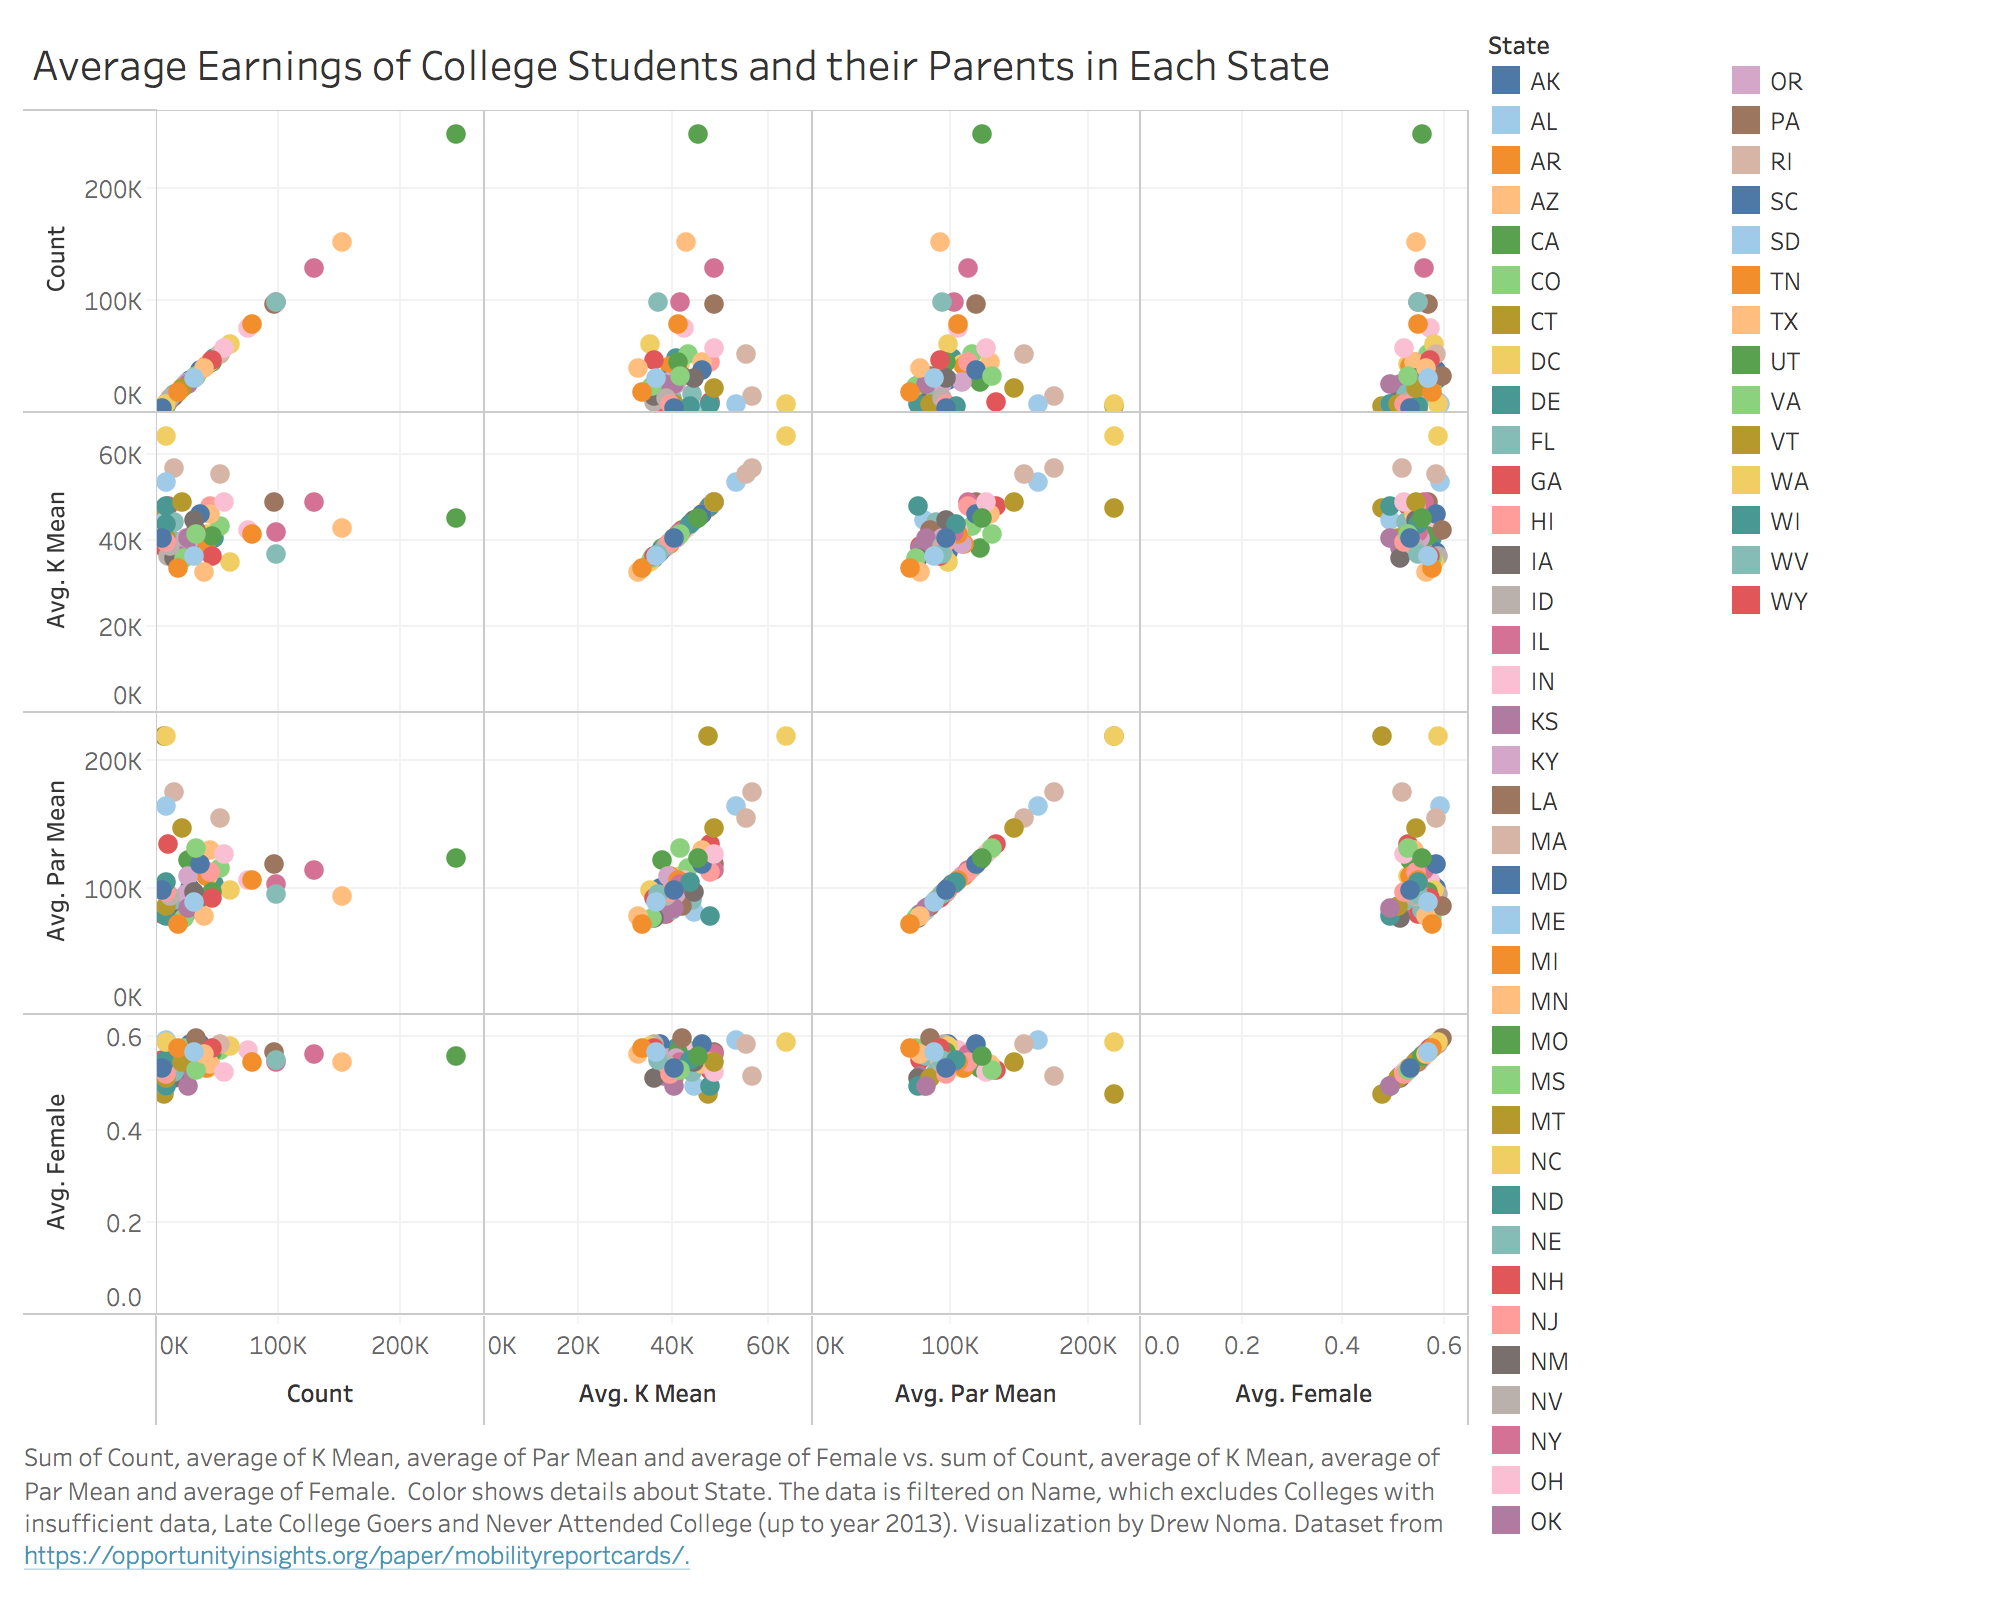
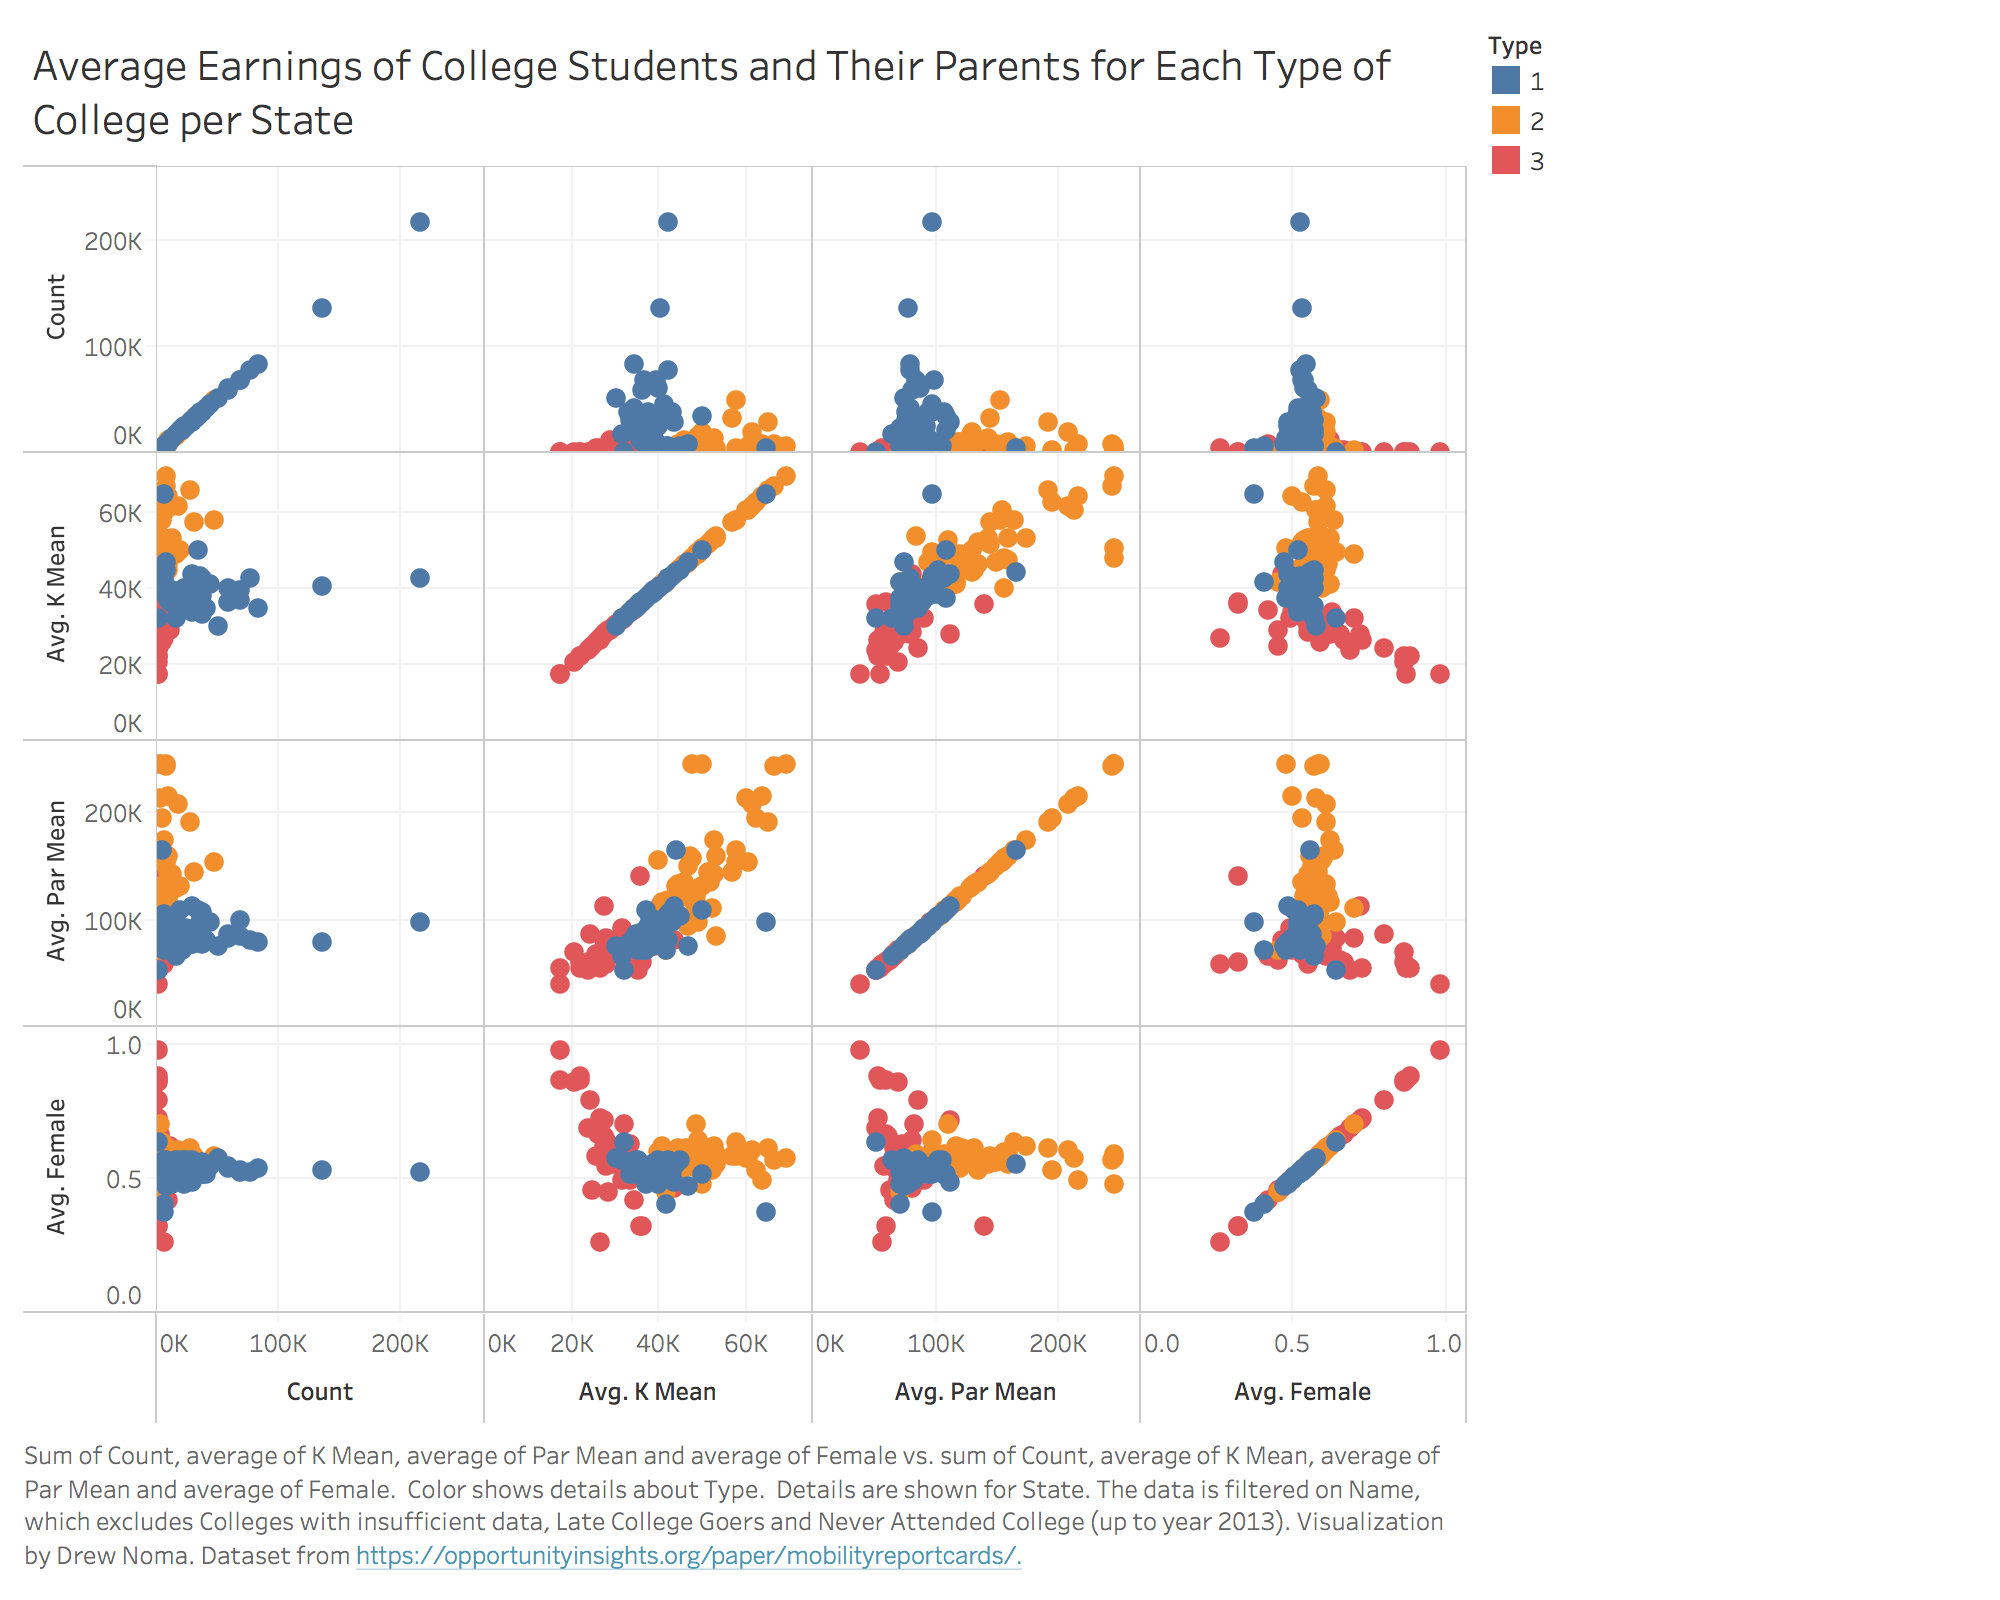
added writeups. updated visualization. general trend of data is that for-profit college goers generally have a lower income than public and private non-profit colleges

diff --git a/data/writeup.html b/data/writeup.html
@@ -108,24 +108,26 @@
                 <ol>
                     <li><strong>Count:</strong> Average number of kids per cohort.</li>
 
-                    <li><strong>Column Name:</strong> Give a description of the column, including its type and possible range of values.</li>
+                    <li><strong>Average K Mean:</strong> The average earnings of each college student.</li>
 
-                    <li><strong>Column Name:</strong> Give a description of the column, including its type and possible range of values.</li>
+                    <li><strong>Average Par Mean:</strong> The average earnings of each student's parents.</li>
 
-                    <li><strong>Column Name:</strong> Give a description of the column, including its type and possible range of values.</li>
+                    <li><strong>Average Female:</strong> The average ratio of female students to male students.</li>
                 </ol>
-
-                <p>This will of course differ depending on the assignment and data.</p>
 
                 <h3 id="wrangling">Wrangling</h3>
 
-                <p>Perhaps you had to do some data wrangling to the original dataset to prepare it for visualization. This would be a great place to discuss some of that wrangling.
+                <p>Data wrangling was done to remove all rows of colleges without valid values for the "type" column. These rows include those with the names:</p>
 
                 <pre>
-You can even put code into these pre blocks.
-  It will preserve whitespace.
-    That is helpful for formatted code.
-        </pre>
+                    <ol>
+                        <li>Colleges with insufficient data</li>
+                        <li>Late College Goers</li>
+                        <li>Never Attended College (up to year 2013)</li>
+                    </ol>
+                </pre>
+
+                <p>This was done as the visualization depends on data of students who went to college.</p>
 
                 <h4>Instructions</h4>
 

diff --git a/data/viz.html b/data/viz.html
@@ -87,7 +87,19 @@
                 <h1 class="title">
                     Prototypes and Implementations
                 </h1>
-                <figure class="media-left">
+                <h2 class="description">
+                    Description
+                </h2>
+                <p>
+                    Each data point represents each state the data was collected from. The "type" of college attended is encoded by color.
+                </p>
+                <h4>Type</h4>
+                <ul>
+                    <li>1 = public college</li>
+                    <li>2 = private non-profit college</li>
+                    <li>3 = for-profit college</li>
+                </ul>
+                <figure class="media-middle">
                     <p class="image is-500x400"><img src="./homework2_avg_kid_earnings.png"></p>
                 </figure>
             </div>
